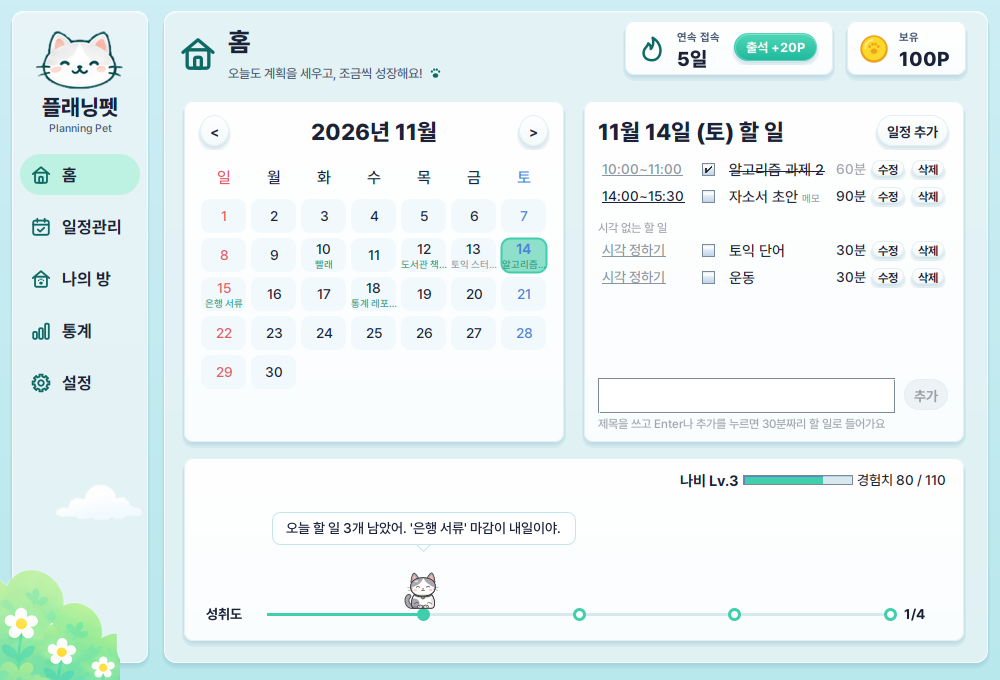
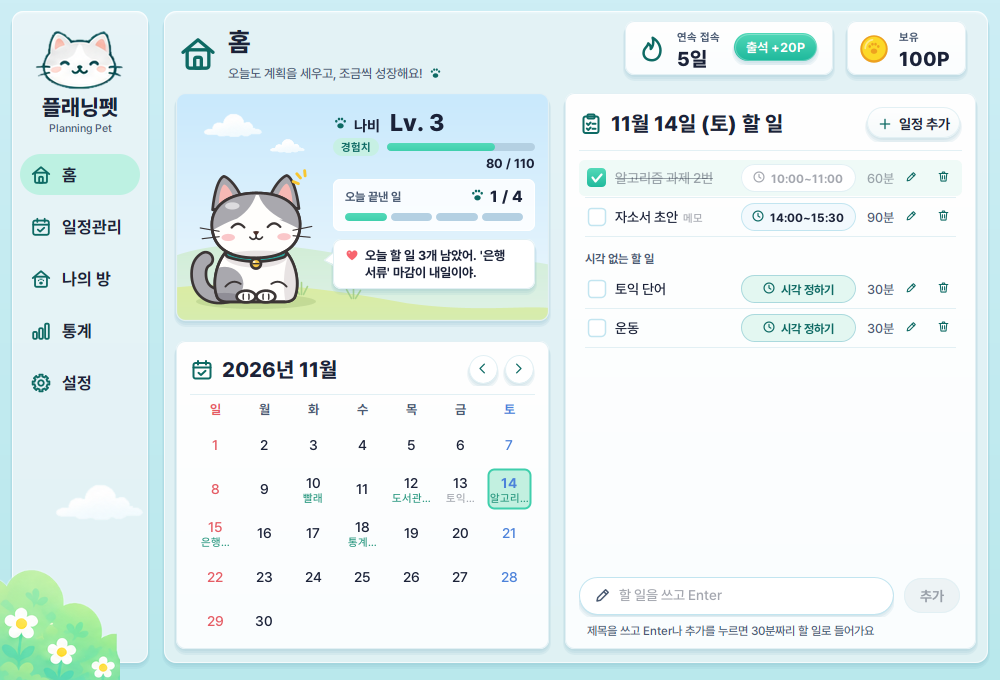
feat(home): 홈 개편 4, 달력 모양과 걷기 막대 지우기 1/4 (#165)

diff --git a/prototype/src/planningpet/home/view/CalendarPanel.java b/prototype/src/planningpet/home/view/CalendarPanel.java
@@ -3,43 +3,71 @@ package planningpet.home.view;
 import planningpet.app.model.Store;
 import planningpet.common.view.*;
 import planningpet.schedule.model.TaskBook;
+import java.awt.BasicStroke;
 import java.awt.BorderLayout;
+import java.awt.Color;
+import java.awt.FontMetrics;
+import java.awt.Graphics;
+import java.awt.Graphics2D;
 import java.awt.GridLayout;
+import java.awt.RenderingHints;
 import java.awt.event.MouseAdapter;
 import java.awt.event.MouseEvent;
 import java.time.LocalDate;
 import java.time.YearMonth;
 import java.util.function.Consumer;
-import javax.swing.JButton;
+import javax.swing.BorderFactory;
 import javax.swing.JLabel;
 import javax.swing.JPanel;
 import javax.swing.SwingConstants;
 
-/** 메인의 달력(05 메인, UC-09). 한 주는 일요일부터 토요일까지다. */
+/**
+ * 메인의 달력(05 메인, UC-09). 한 주는 일요일부터 토요일까지다.
+ * 모양은 2026-11-24 홈 예시: 왼쪽에 달력 아이콘과 제목, 오른쪽에 원 꺾쇠, 칸 바탕 없이 숫자만, 오늘은 연민트 둥근 네모.
+ */
 public final class CalendarPanel extends JPanel {
     private static final String DAYS = "일월화수목금토";
     private final Store store;
     private final Consumer<LocalDate> onSelect;
-    public final JPanel grid = new JPanel(new GridLayout(7, 7, 2, 2));
-    private final JLabel title = new JLabel("", SwingConstants.CENTER);
+    /** 날짜 칸. 그달의 주 수만큼 줄이 있다. */
+    public final JPanel grid = new JPanel(new GridLayout(0, 7, 2, 2));
+    private final JLabel title = new JLabel();
+    public final CircleButton prev = new CircleButton(Icons.Kind.LEFT, 32, "이전 달", false);
+    public final CircleButton next = new CircleButton(Icons.Kind.RIGHT, 32, "다음 달", false);
     private YearMonth month;
     private LocalDate selected;
 
     public CalendarPanel(Store store, Consumer<LocalDate> onSelect) {
-        super(new BorderLayout(0, 8));
+        super(new BorderLayout(0, 4));
         this.store = store;
         this.onSelect = onSelect;
         this.selected = store.today();
         this.month = YearMonth.from(selected);
-        JButton prev = new JButton("<");
-        JButton next = new JButton(">");
         prev.addActionListener(e -> move(-1));
         next.addActionListener(e -> move(1));
+        title.setIcon(Icons.icon(Icons.Kind.CALENDAR, 24, Theme.ICON));
+        title.setIconTextGap(8);
+        title.setFont(Theme.heavy(21));
+        JPanel arrows = new JPanel(new GridLayout(1, 2, 4, 0));
+        arrows.add(prev);
+        arrows.add(next);
         JPanel head = new JPanel(new BorderLayout());
-        head.add(prev, BorderLayout.WEST);
         head.add(title, BorderLayout.CENTER);
-        head.add(next, BorderLayout.EAST);
-        add(head, BorderLayout.NORTH);
+        head.add(arrows, BorderLayout.EAST);
+        head.setBorder(BorderFactory.createCompoundBorder(BorderFactory.createMatteBorder(0, 0, 1, 0, Theme.CARD_EDGE),
+                BorderFactory.createEmptyBorder(0, 0, 8, 0)));
+        JPanel week = new JPanel(new GridLayout(1, 7, 2, 0));
+        for (int i = 0; i < 7; i++) {
+            JLabel day = new JLabel(String.valueOf(DAYS.charAt(i)), SwingConstants.CENTER);
+            day.setForeground(i == 0 ? Theme.SUNDAY : i == 6 ? Theme.SATURDAY : Theme.INK_SUB);
+            day.setFont(Theme.bold(13));
+            day.setBorder(BorderFactory.createEmptyBorder(6, 0, 2, 0));
+            week.add(day);
+        }
+        JPanel top = new JPanel(new BorderLayout());
+        top.add(head, BorderLayout.NORTH);
+        top.add(week, BorderLayout.SOUTH);
+        add(top, BorderLayout.NORTH);
         add(grid, BorderLayout.CENTER);
     }
 
@@ -59,16 +87,10 @@ public final class CalendarPanel extends JPanel {
 
     public void refresh() {
         title.setText(month.getYear() + "년 " + month.getMonthValue() + "월");
-        title.setFont(Theme.font(23));
         grid.removeAll();
-        for (int i = 0; i < 7; i++) {
-            JLabel day = new JLabel(String.valueOf(DAYS.charAt(i)), SwingConstants.CENTER);
-            day.setForeground(i == 0 ? Theme.SUNDAY : i == 6 ? Theme.SATURDAY : Theme.INK);
-            day.setFont(Theme.font(16));
-            grid.add(day);
-        }
         int offset = month.atDay(1).getDayOfWeek().getValue() % 7;
-        for (int cell = 0; cell < 42; cell++) {
+        int cells = (offset + month.lengthOfMonth() + 6) / 7 * 7;
+        for (int cell = 0; cell < cells; cell++) {
             int dayNumber = cell - offset + 1;
             grid.add(dayNumber < 1 || dayNumber > month.lengthOfMonth() ? new JLabel() : cell(month.atDay(dayNumber)));
         }
@@ -76,6 +98,10 @@ public final class CalendarPanel extends JPanel {
         grid.repaint();
     }
 
+    /**
+     * 날짜 칸. 글(getText)은 숫자와 첫 할 일 제목의 HTML이고(QA와 화면 읽기 프로그램이 읽는다), 그림은 손수 그린다:
+     * 숫자, 그 아래 제목을 칸 폭에 들어가는 만큼(D-59). 오늘은 DAY_TODAY 둥근 네모, 고른 날은 MINT 테두리, 마우스를 올리면 DAY.
+     */
     private JLabel cell(LocalDate date) {
         TaskBook.CellPreview preview = store.book.cellPreview(date);
         String day = date.equals(selected) ? "<b>" + date.getDayOfMonth() + "</b>" : String.valueOf(date.getDayOfMonth());
@@ -83,17 +109,24 @@ public final class CalendarPanel extends JPanel {
                 + (preview.open() ? "#28977F" : "#8A96A0") + "'>" + Ui.esc(preview.title()) + "</font>") + "</center>";
         boolean today = date.equals(store.today());
         boolean picked = date.equals(selected);
+        int dow = date.getDayOfWeek().getValue() % 7;
+        Color ink = dow == 0 ? Theme.SUNDAY : dow == 6 ? Theme.SATURDAY : Theme.INK;
+        boolean[] over = {false};
         JLabel label = new JLabel("<html>" + text + "</html>", SwingConstants.CENTER) {
             @Override
-            protected void paintComponent(java.awt.Graphics graphics) {
-                java.awt.Graphics2D g = (java.awt.Graphics2D) graphics.create();
-                g.setRenderingHint(java.awt.RenderingHints.KEY_ANTIALIASING, java.awt.RenderingHints.VALUE_ANTIALIAS_ON);
-                g.setColor(today ? Theme.DAY_SELECTED : Theme.DAY);
-                g.fillRoundRect(1, 1, getWidth() - 3, getHeight() - 3, 18, 18);
+            protected void paintComponent(Graphics graphics) {
+                Graphics2D g = (Graphics2D) graphics.create();
+                g.setRenderingHint(RenderingHints.KEY_ANTIALIASING, RenderingHints.VALUE_ANTIALIAS_ON);
+                g.setRenderingHint(RenderingHints.KEY_TEXT_ANTIALIASING, RenderingHints.VALUE_TEXT_ANTIALIAS_ON);
+                int w = getWidth();
+                int h = getHeight();
+                int r = 12;
+                if (today || over[0]) {
+                    g.setColor(today ? Theme.DAY_TODAY : Theme.DAY);
+                    g.fillRoundRect(2, 1, w - 4, h - 2, r, r);
+                }
                 if (picked) {
                     g.setColor(Theme.MINT);
-                    g.setStroke(new java.awt.BasicStroke(2));
-                    g.drawRoundRect(1, 1, getWidth() - 3, getHeight() - 3, 18, 18);
                 }
                 g.dispose();
                 super.paintComponent(graphics);

diff --git a/docs/qa/rules.md b/docs/qa/rules.md
@@ -13,7 +13,6 @@
 
 | 버튼 | 자리 | 까닭 |
 |---|---|---|
-| ">" | 홈 위 오른쪽, 일정관리 위 왼쪽 | 홈은 달력의 다음 달, 일정관리는 다음 주로 하는 일이 다르고 각자 달력과 주 이름 옆에 붙어 있다 |
 | "삭제" | 홈 가운데 오른쪽, 일정관리 아래 오른쪽, 일정 수정 창 아래 왼쪽 | 목록 줄은 수정과 같다. 일정 수정 창의 삭제는 저장과 떨어뜨려 왼쪽 아래에 둔다(D-43) |
 | "수정" | 홈 가운데 오른쪽, 일정관리 아래 오른쪽 | 일정관리 오른쪽 목록은 좁아서 줄의 둘째 줄 오른쪽에 둔다(05 일정관리). 두 화면 다 줄 끝 오른쪽이다 |
 | "취소" | 나의 방 아래 왼쪽, 일정 추가 창 아래 오른쪽, 일정 수정 창 아래 오른쪽, 시각 고치기 창 아래 오른쪽, 자동 배치 결과 창 아래 오른쪽 | 나의 방 미리보기 칸은 좁아서 취소와 구매하기가 칸 폭을 반씩 나눈다. 순서는 작은 창과 같이 취소, 동작 버튼이다(D-43, D-53) |
@@ -54,6 +53,7 @@
 | 내 일정을 한눈에 확인하고, 체계적으로 관리해요! | 일정관리 |
 | 노래 | 캐릭터 창 |
 | 다음 기간 | 통계 |
+| 다음 달 | 홈 |
 | 다음 아이템 | 나의 방 |
 | 다음 자세 | 캐릭터 창 |
 | 데이터 위치 | 설정 |
@@ -115,6 +115,7 @@
 | 이름 변경 | 캐릭터 창 |
 | 이번 주 남은 날의 시각 없는 할 일이 3개 있어. 자동 배치를 눌러 볼래? | 일정관리 |
 | 이전 기간 | 통계 |
+| 이전 달 | 홈 |
 | 일 | 홈 |
 | 일 15 | 일정관리 |
 | 일정 유형별 달성률 | 통계 |

diff --git a/docs/05-ui-design.md b/docs/05-ui-design.md
@@ -64,7 +64,7 @@
 | 6 | 일정 추가 | 목록 카드 제목 줄 오른쪽의 `JButton` | 누르면 일정 입력 창을 연다. 날짜는 고른 날짜로 채운다. 빠른 추가 칸의 글은 쓰지 않는다 | 없음 |
 | 7 | 시각 알약 | 제목 오른쪽의 알약 `JButton` | 시각 있으면 "10:00~11:00", 없으면 민트 "시각 정하기". 누르면 시각 고치기 창을 연다 | 없음 |
 | 8 | 수정, 삭제 | 줄 끝의 아이콘 `JButton` 둘(연필, 휴지통, 툴팁 "수정", "삭제") | 수정은 일정 입력 창을 수정으로 연다. 삭제는 일정 삭제 확인 창을 거친다 | 삭제의 저장에 실패하면 되돌리고 저장 실패 창을 띄운다 |
-| 9 | 펫 카드 | 누를 수 있는 카드(`Card`, 손 모양 커서) | 누르면 캐릭터 창을 연다(D-58) | 없음 |
+| 9 | 펫 카드 | 누를 수 있는 `JComponent`(`PetCard`, `Card`와 같은 모양과 그림자, 손 모양 커서, Enter와 Space로도 누른다) | 누르면 캐릭터 창을 연다(D-58) | 없음 |
 
 ### 시각 고치기 창
 
